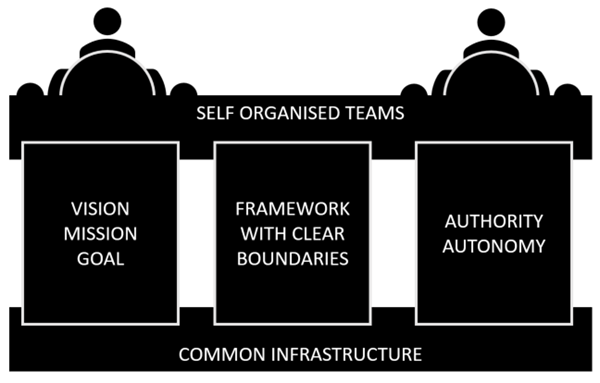
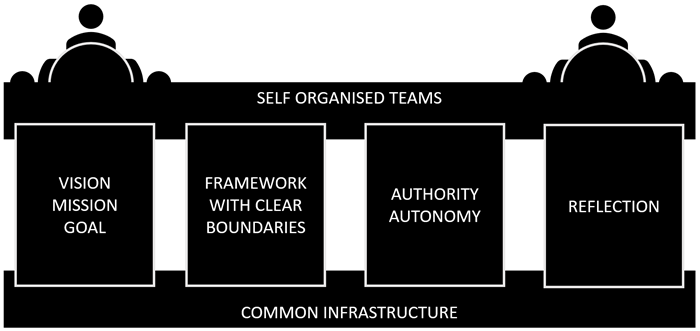
Minor revisions to existing content and start new pillar section

diff --git a/src/Stories/our-journey-of-transforming-to-a-devops-culture.md b/src/Stories/our-journey-of-transforming-to-a-devops-culture.md
@@ -9,6 +9,7 @@
 > -----------------------------------------
 
 #Introduction
+
 ##Value for the reader to read this ebook
 For many years, we've been evaluating and implementing Agile practices across our geographically distributed, part-time, and volunteered-based teams. While we shared our learnings in the [Managing Agile OSS Projects with Microsoft VSO](https://blogs.msdn.microsoft.com/microsoft_press/2015/04/09/free-ebook-managing-agile-open-source-software-projects-with-microsoft-visual-studio-online/) eBook, we realized we're not done. We need to scale, and more importantly, deliver value to our developer community quickly. 
 
@@ -53,17 +54,17 @@ With **self-organized** teams, the traditional hierarchy and chain-of-command is
 
 ###Self-organizing team?
 
-As suggested by the [Scrum Guide](http://www.scrumguides.org/scrum-guide.html) our "*self-organizing teams choose how best to accomplish their work, rather than being directed by others outside the team*". None of our teams are the same and there is no silver bullet, or secret sauce, to become a self-organized team. 
+As suggested by the [Scrum Guide](http://www.scrumguides.org/scrum-guide.html) our "*self-organizing teams choose how best to accomplish their work, rather than being directed by others outside the team*". None of our teams are the same and there is no secret sauce to become a self-organized team. 
 
 Some key observations within our environment:
 
-- It's not a once-off transition! We're continuously observing, learning, adapting, evolving our environment.
+- It's not a once-off transition! We're continuously observing, learning, adapting, and evolving our environment.
 - Every team member must self-organize! There is no central control or micro-management. 
-- Team members must trust and respect each other! Members who are not engaged or go dark, destroy self-organized teams.
+- Team members must trust and respect each other! Members who are not engaged or go dark, drain the energy from self-organized teams.
 
 ###Self-managing team?
 
-Self-managing teams not only choose how best to accomplish their work, but also for manage their engineering process. Building upon organizational processes, these teams adapt their process within the boundary and context of their team.
+Self-managing teams not only choose how best to accomplish their work, but also how to manage their engineering process. Building upon organizational processes, these teams adapt their process within the boundary and context of their team.
 
 Some key observations within our environment: 
 - Many teams standardize on [Kanban](https://www.visualstudio.com/en-us/docs/work/kanban/kanban-basics), focusing on moving their work from left (new) to right (done), and relying on PM enablement to minimize bottlenecks. 
@@ -79,18 +80,31 @@ Cross-functional teams "*have all competencies needed to accomplish the work wit
 
 #Pillars
 
-//?
+Our teams rely on a common infrastructure, based on [Visual Studio Team Services](https://www.visualstudio.com/team-services/), and four pillars to transition to and effectively evolve as self-organized, self-managed, and cross-functional teams. We'll refer back to these pillars, when we discuss patterns we have observed with our teams.
 
 ![Pillars for self-organised teams](./_img/our-journey-of-transforming-to-a-devops-culture/our-journey-pillars.png)
 
 ##Vision | Mission
-// willys
+
+Our overall goal is to *continuous delivery of value to our end users*. For each project, we define a crisp vision and a captivating mission, aligned with our overall [mission](https://aka.ms/vsarmission) statement. It's important that we create a meaningful purpose and motivation for our teams, so that everyone knows what and believes in what we're doing, and has the feeling of doing something great for the larger community.
+
 ##Framework | boundaries
-// willys
+
+Teams choose what to work on, how to best accomplish their work, and how to manage their engineering process. While this creates the ideal and effective environment for the team, it's important to create clear boundaries of responsibility, information flow, monitoring, and allowable **drift** from the overall program. Our common infrastructure enables teams to focus on their mission and learn to rely on stable progress monitoring, debt, adoption blocker, compliance, and overall program management to create stability. 
+
 ##Authority
-// willys
+
+> "*The price of greatness is responsibility*" - Winston Churchill
+
+Autonomy, independence, and freedom comes with responsibility and accountability. We're all accountable to the community, teams we're collaborating with, and peers. We succeed or fail as a team! Responsibility and accountability is not something we can enforce or establish in a person. It's something we assume and expect from all our team members, outlined in our [manifesto](https://aka.ms/vsaraboutus) of core values.
+
 ##Reflection
-// willys
+
+In our eBook [Managing Agile OSS Projects with Microsoft VSO](https://blogs.msdn.microsoft.com/microsoft_press/2015/04/09/free-ebook-managing-agile-open-source-software-projects-with-microsoft-visual-studio-online/) we emphasized the need for continuous reflection, adaption, and improvements. It's important to continuously evolve, find ways to improve as an individual and as well as a greater whole. 
+
+> "*"Information is the oxygen of the modern age. It seeps through the walls topped by barbed wire, it wafts across electrified borders.*" - Ronald Reagan
+
+Reflection is an opportunity for all of us to inspect ourselves, plan for improvements, and share our learnings. It's a pillar that must be embraced by all stakeholders, from individual team member, to the overall program. Reflection fuels improvement and innovation if nurtured, or withers if ignored!
 
 #Our journey
 
